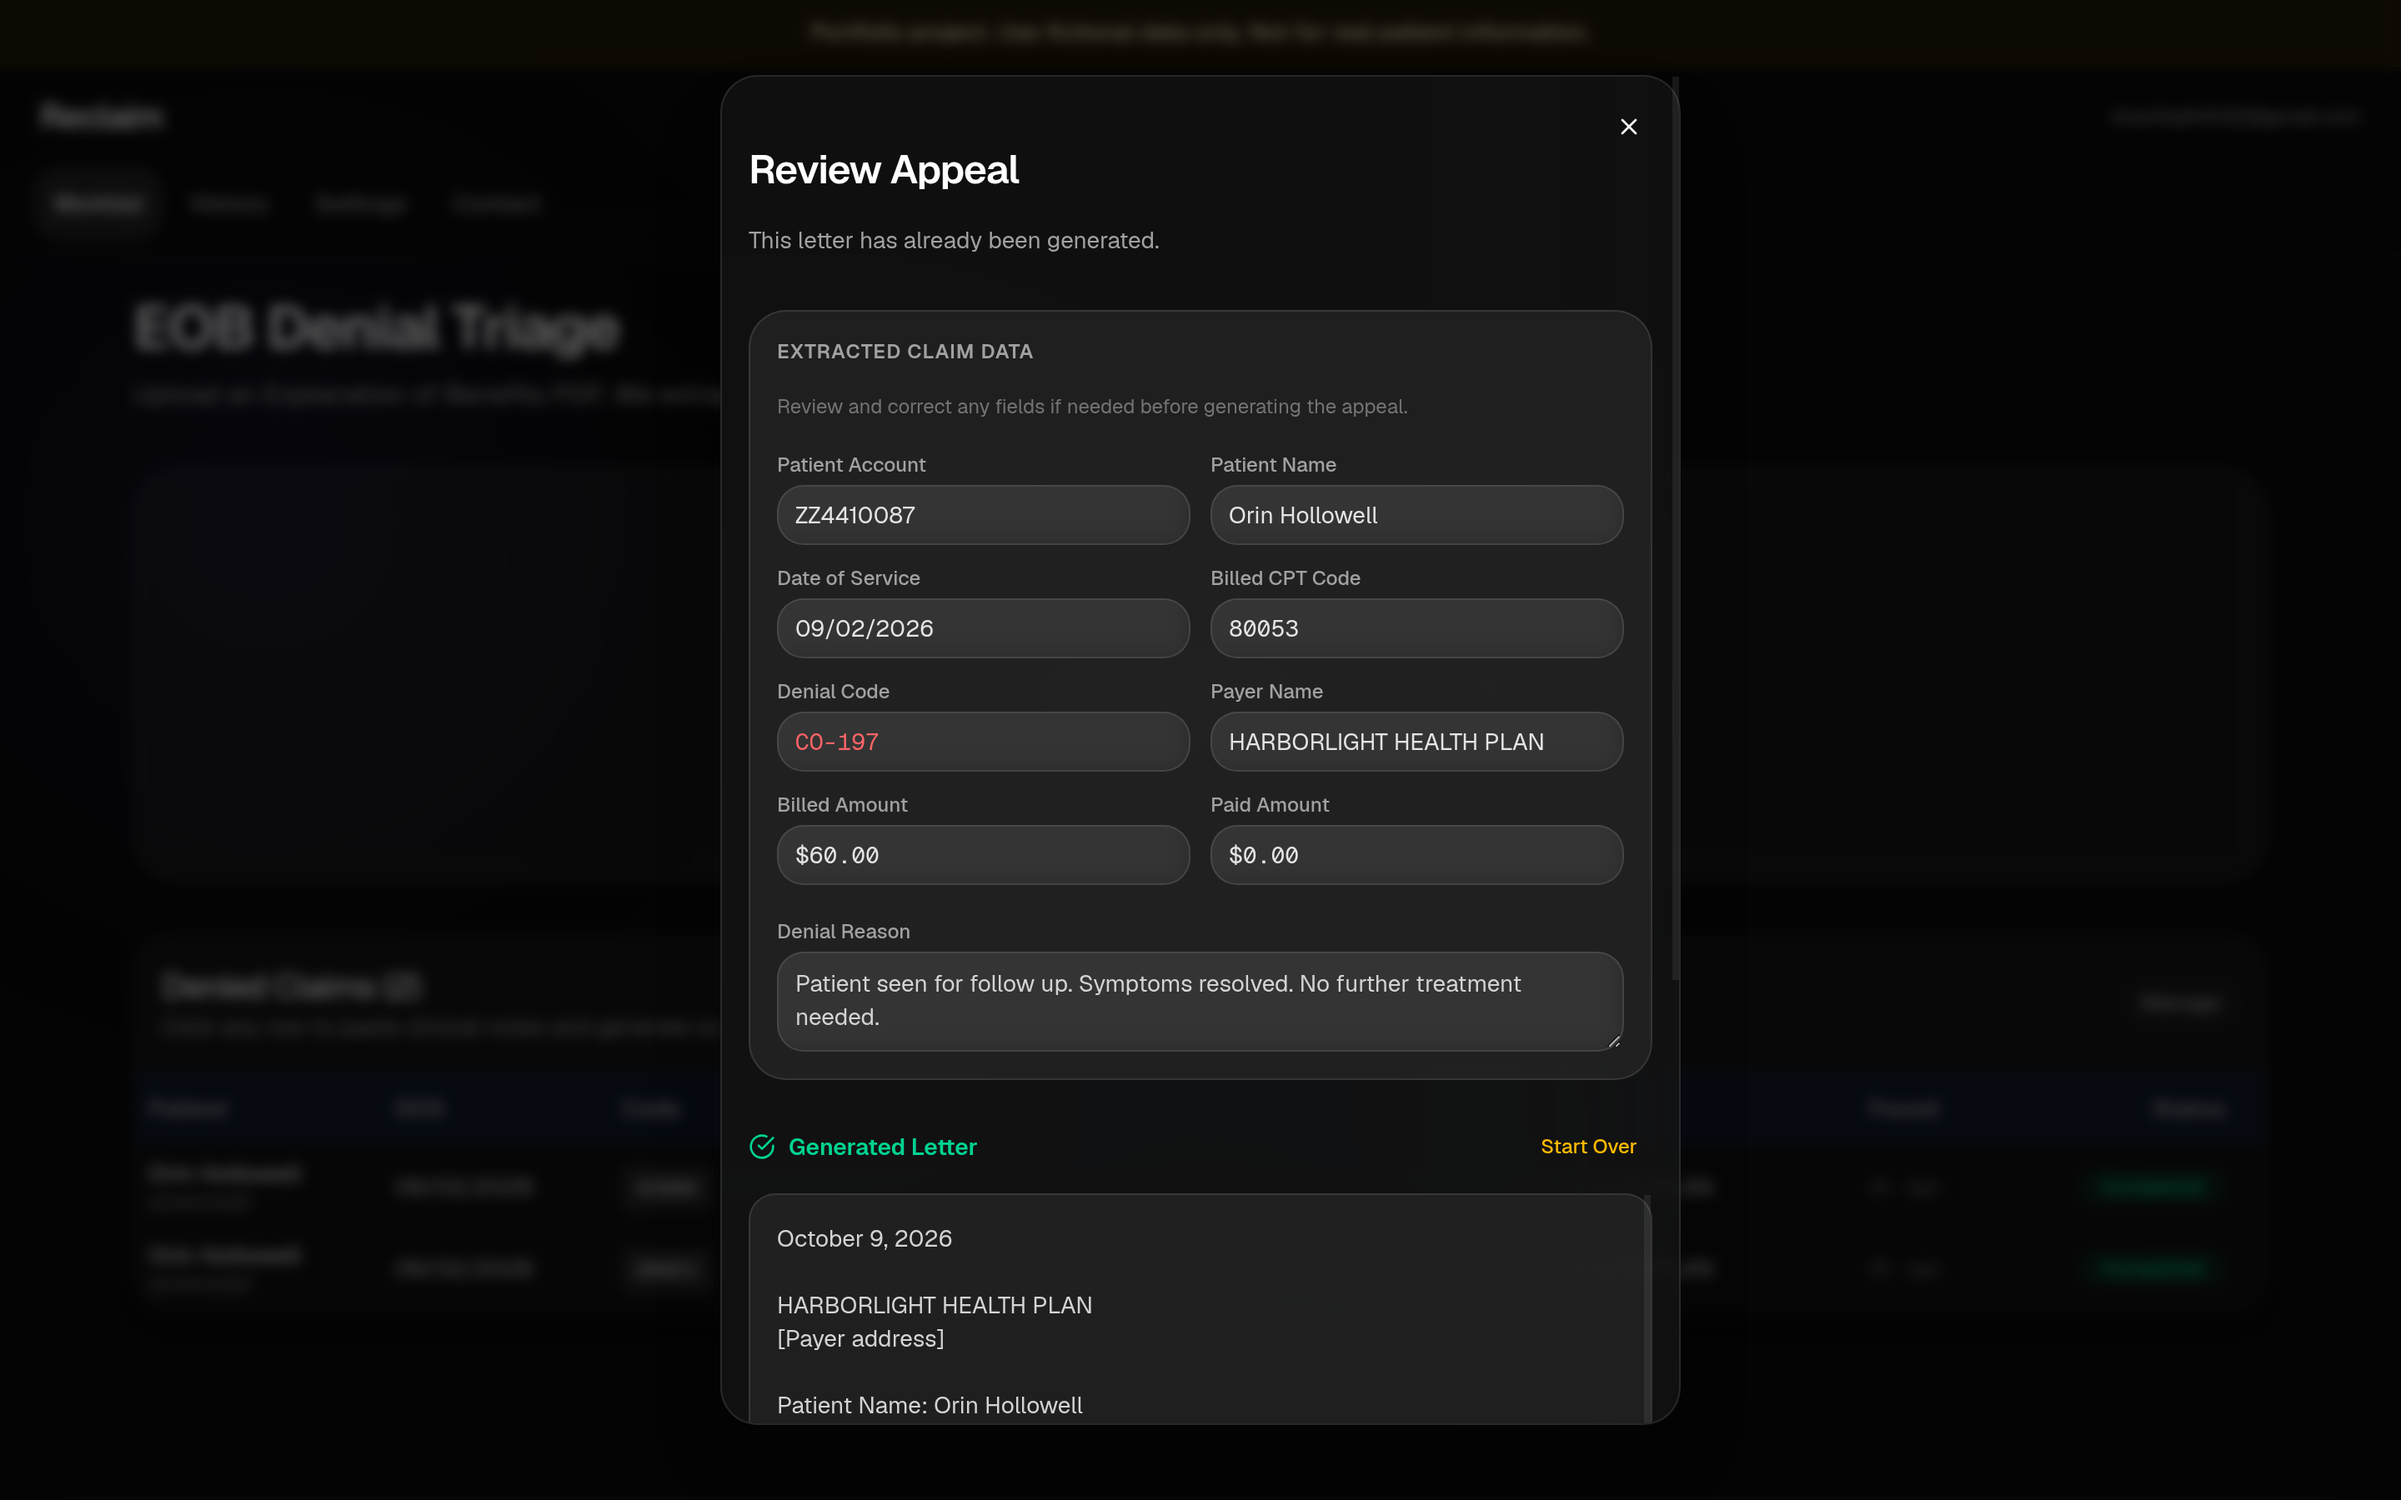
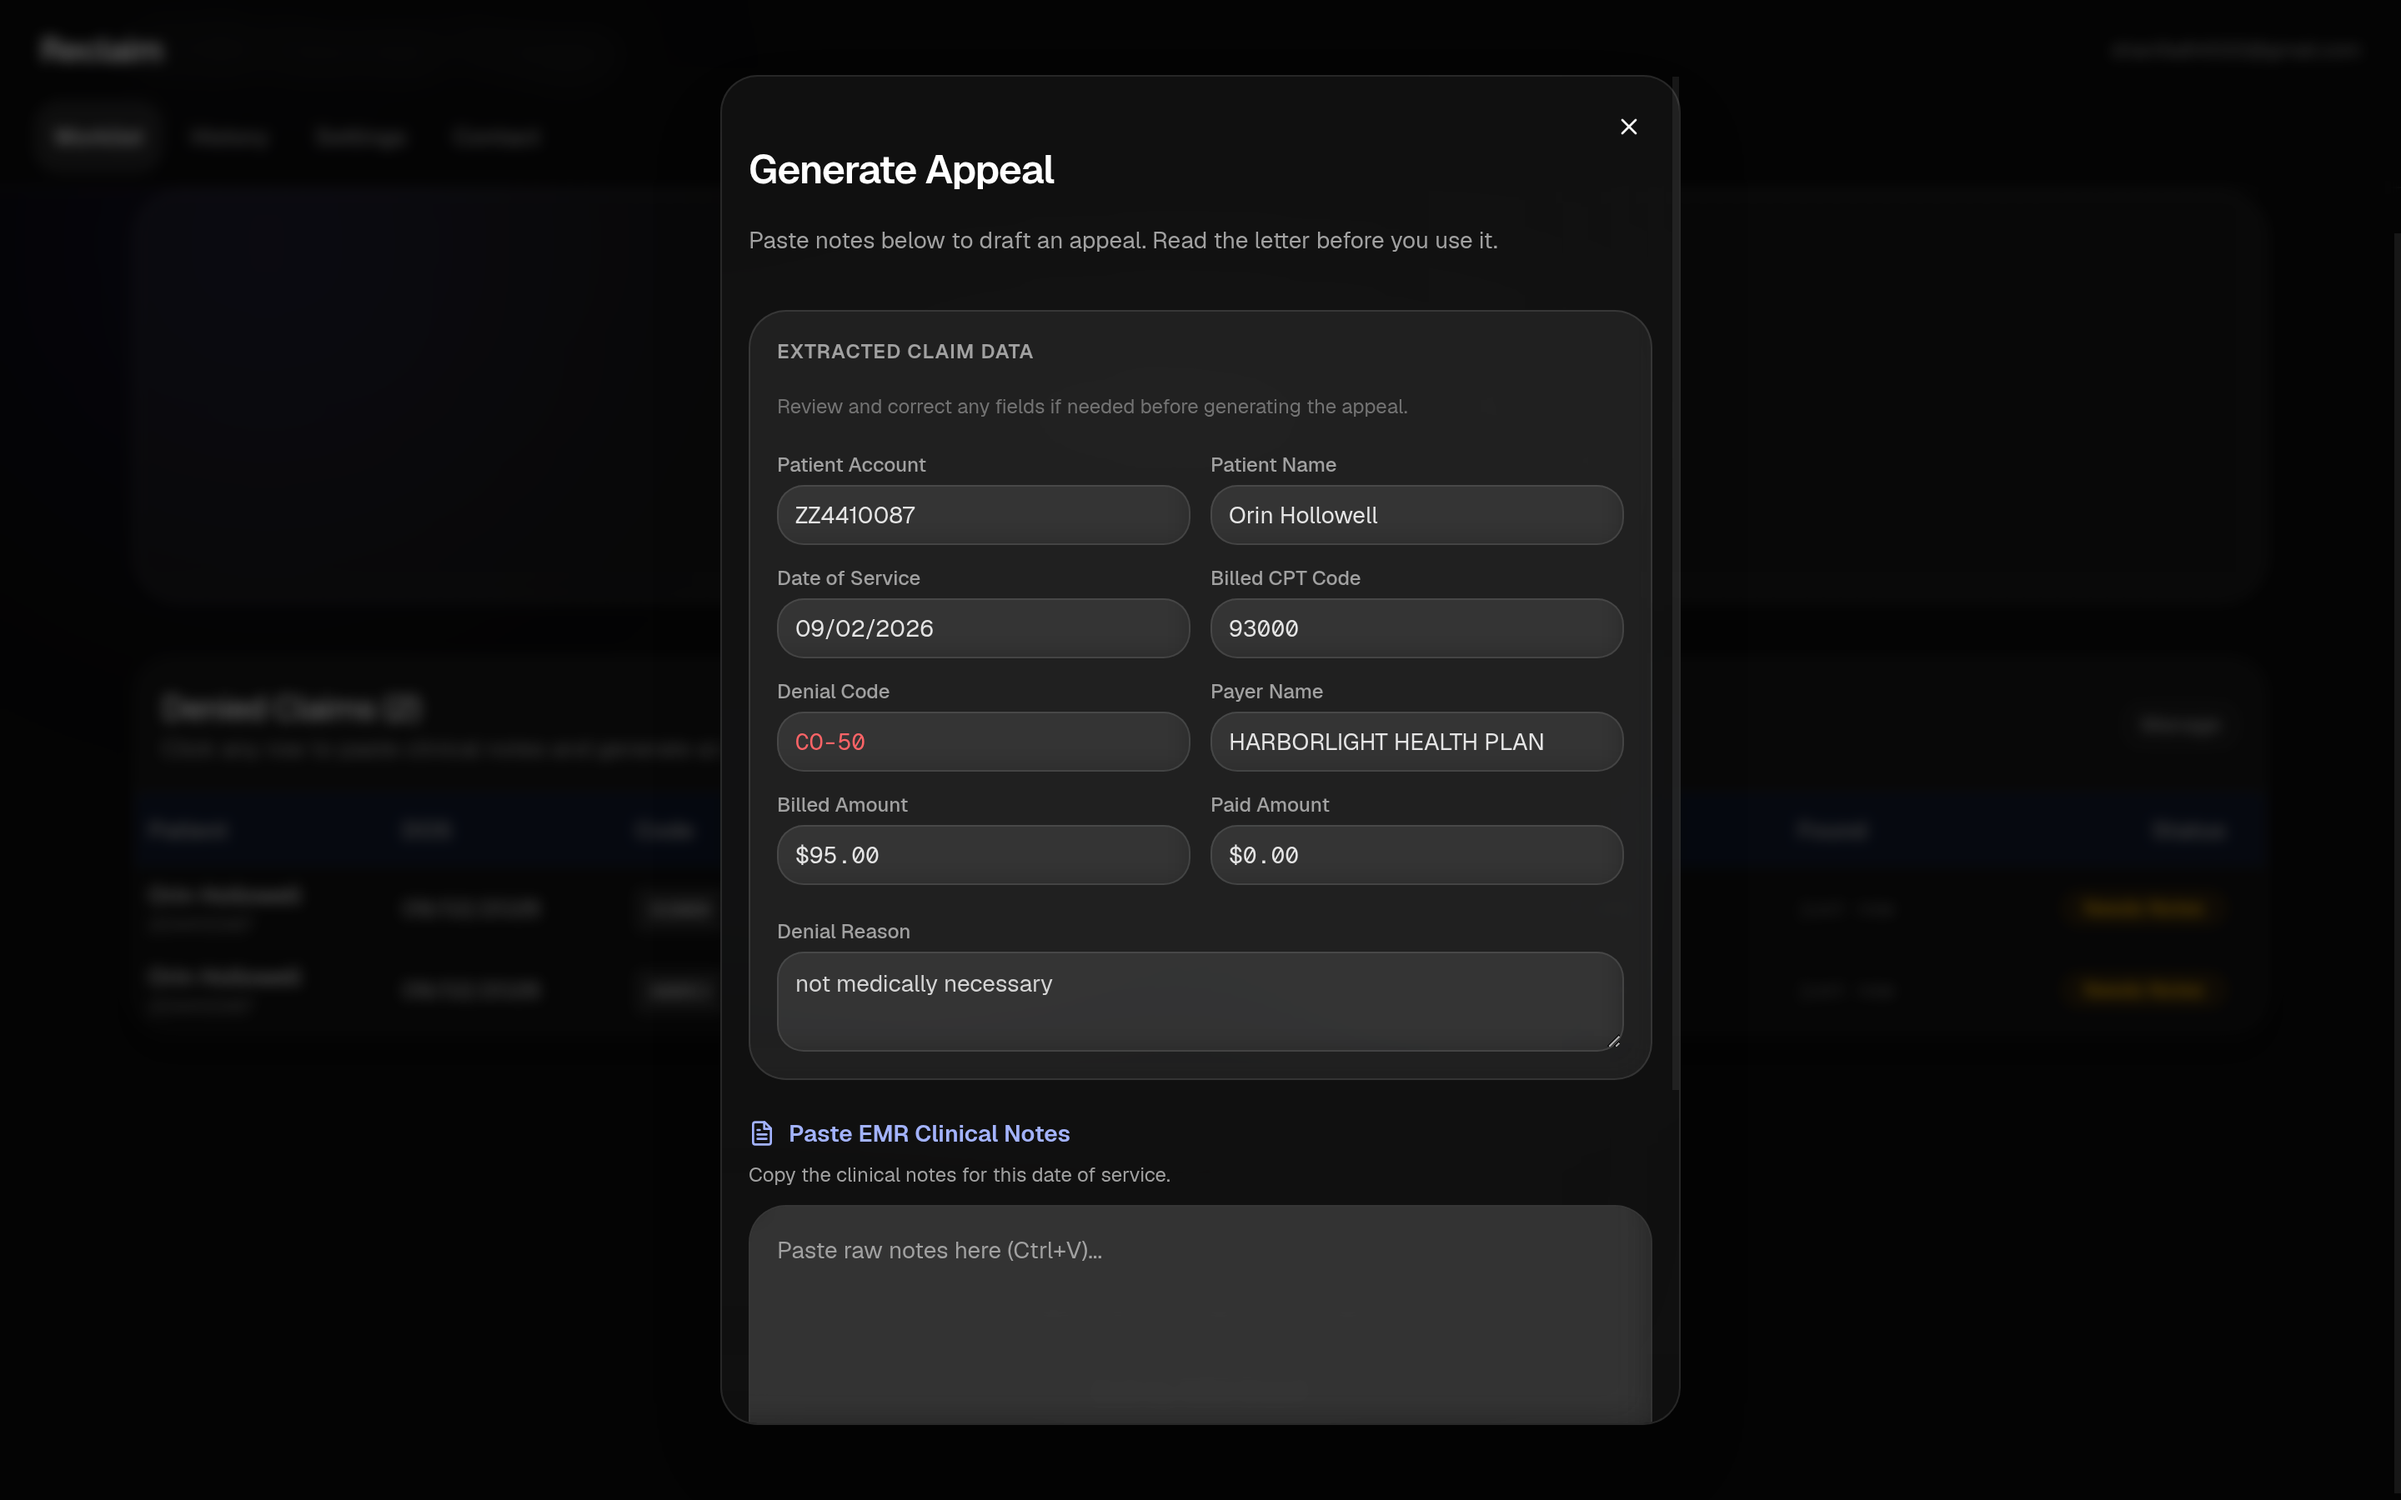
Replace the Reclaim review screenshot with the 93000 Review Appeal dialog.
The image alt now says to check the extracted fields against the PDF, then generate or review the letter.

diff --git a/src/components/ProjectModal.tsx b/src/components/ProjectModal.tsx
@@ -10,6 +10,13 @@ interface ProjectModalProps {
   onClose: () => void;
 }
 
+function altForShot(project: Project, src: string, index: number, total: number): string {
+  const specific = project.caseStudy?.screenshotAlts?.[src];
+  if (specific) return specific;
+  if (total === 1) return `${project.title} main screenshot`;
+  return `${project.title} screenshot ${index + 1}`;
+}
+
 function imagesForModal(project: Project): string[] {
   if (project.hideMedia) return [];
   const shots = (project.caseStudy?.screenshots ?? []).filter((src) => src.trim() !== "");
@@ -236,11 +243,7 @@ export default function ProjectModal({ project, onClose }: ProjectModalProps) {
                     >
                       <ProjectImage
                         src={src}
-                        alt={
-                          modalImages.length === 1
-                            ? `${project.title} main screenshot`
-                            : `${project.title} screenshot ${index + 1}`
-                        }
+                        alt={altForShot(project, src, index, modalImages.length)}
                         sizes={MODAL_IMAGE_SIZES}
                         className="block h-auto w-full"
                       />
@@ -406,7 +409,10 @@ export default function ProjectModal({ project, onClose }: ProjectModalProps) {
           <div className="max-h-[90dvh] max-w-full" onClick={(event) => event.stopPropagation()}>
             <ProjectImage
               src={zoomedSrc}
-              alt={`${project.title} screenshot full size`}
+              alt={
+                project.caseStudy?.screenshotAlts?.[zoomedSrc] ??
+                `${project.title} screenshot full size`
+              }
               sizes="90vw"
               className="block h-auto max-h-[90dvh] w-auto max-w-full object-contain"
             />

diff --git a/src/data/projects.ts b/src/data/projects.ts
@@ -16,6 +16,7 @@ export interface Project {
     solution: string;
     outcome?: string;
     screenshots?: string[];
+    screenshotAlts?: Record<string, string>;
   };
   role?: string;
   methodology?: string;
@@ -68,6 +69,10 @@ const baseProjects: Project[] = [
         "/screenshots/reclaim-letter.png",
         "/screenshots/reclaim-history.png",
       ],
+      screenshotAlts: {
+        "/screenshots/reclaim-review.png":
+          "Check the extracted fields against the PDF, then generate or review the letter.",
+      },
     },
     keyDecisions:
       "Reclaim reads page images rather than relying only on text, because fax-style statements often have no usable text layer. The cost is bigger requests, so pages go three at a time and narrow pages fall back to text. A plain parser runs before any AI call on text, so standard tables cost nothing. The worklist is kept in the browser rather than the database, so fewer claim details are stored. The catch is that it doesn't follow you to another device. The model never has the last word: a person ticks \"verified\" before a letter is written, and the code sets the date and the patient name itself.",
